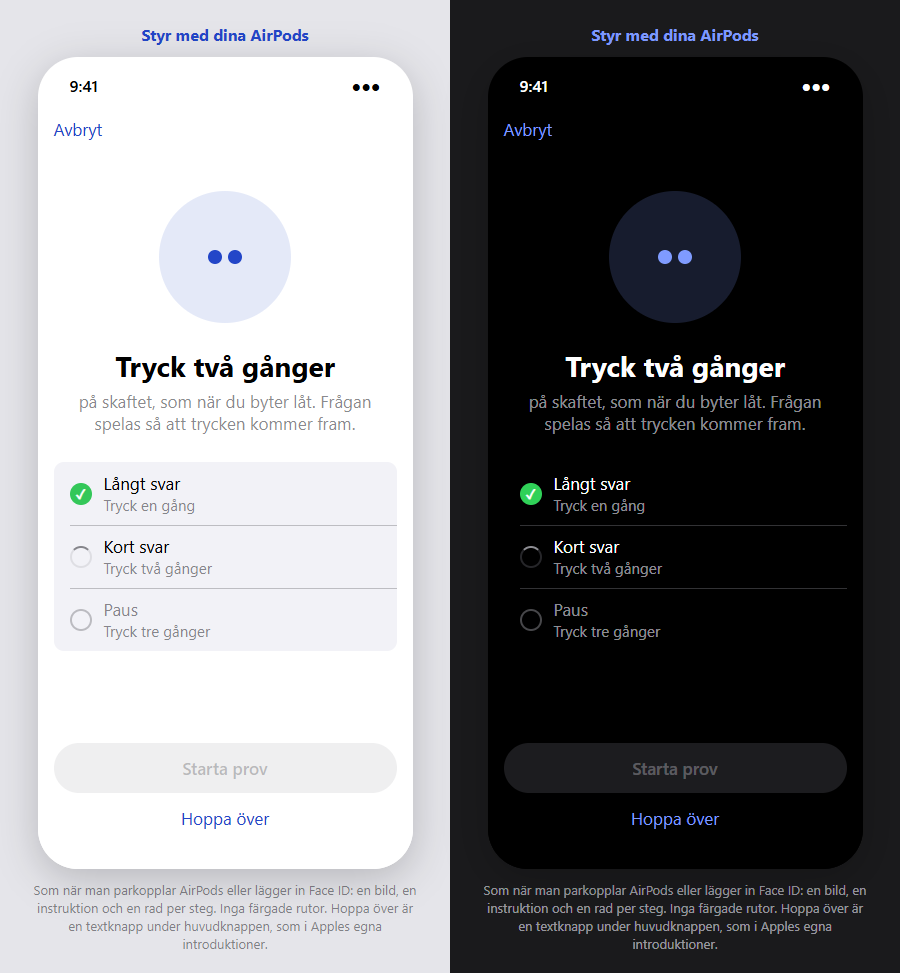
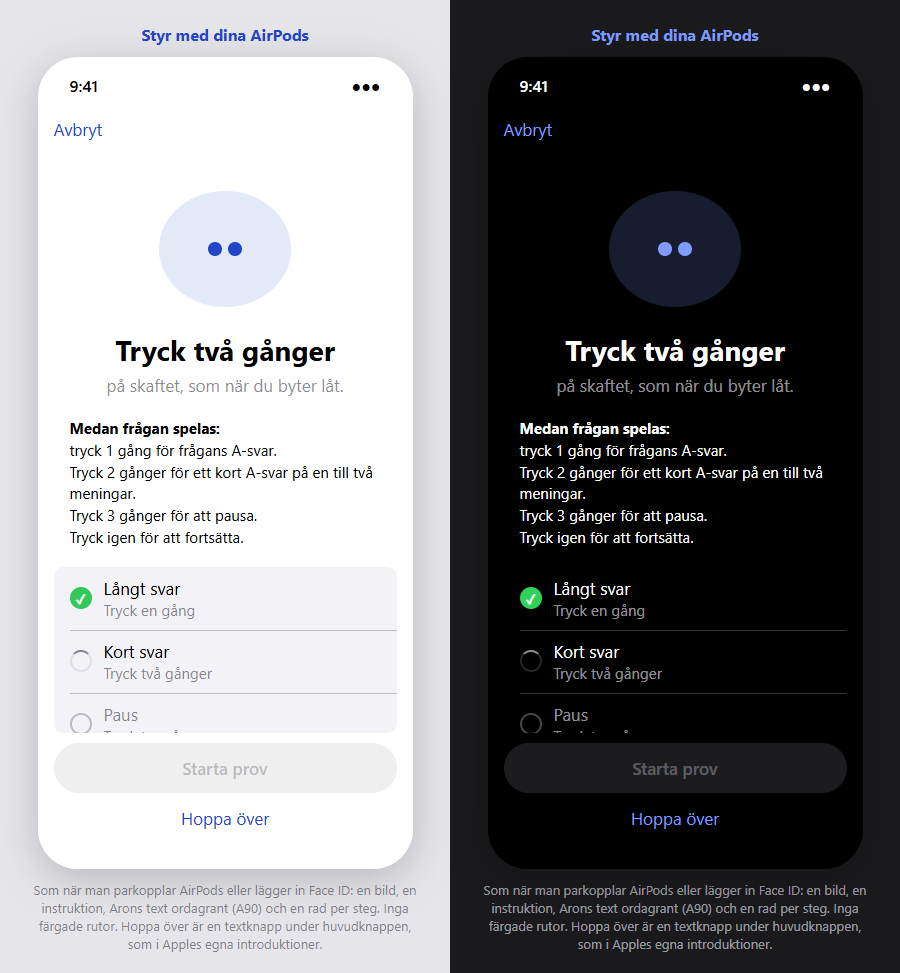
Kelly: texter och skisser efter A90 (Arons kontrolltext ordagrant), D162 (inget val av svarslängd) och A88 (årskurs) [skip eval]

diff --git a/docs/design/_src/apple.html b/docs/design/_src/apple.html
@@ -133,7 +133,7 @@ add('hem', 'Hem med prov', 'En lista, som Podcaster. Överst nästa prov med den
   <div class="sec"><div class="row"><div>Lyssnande lägen<div class="sub">Beta · använder mikrofonen</div></div><span class="v">${chev}</span></div></div>
   </div><div class="tb"><span>${I('plus', 'ico', 'width:24px;height:24px;stroke:none')}Nytt prov</span><span></span></div></div>`);
 
-add('nytt', 'Nytt prov (Form)', 'Ett vanligt formulär i ett blad. Materialet som rader med symbol, inte ett rutnät av kort. Inställningar med systemets Stepper och segmentväljare. Skapa frågor står alltid synlig nederst och säger varför den är grå.',
+add('nytt', 'Nytt prov (Form)', 'Ett vanligt formulär i ett blad. Materialet som rader med symbol, inte ett rutnät av kort. Antal frågor med systemets Stepper och årskursen som en meny (A88, Hoppa över finns i menyn). Inget val av svarslängd (D162). Skapa frågor står alltid synlig nederst och säger varför den är grå.',
   () => `<div class="phone g">${status}<div class="nav"><a>Avbryt</a><span class="t">Nytt prov</span><span style="width:50px"></span></div>
   <div class="content" style="padding-top:8px">
   <div class="sec"><div class="row" style="color:var(--ter)">Provets namn</div></div>
@@ -145,8 +145,8 @@ add('nytt', 'Nytt prov (Form)', 'Ett vanligt formulär i ett blad. Materialet so
   <div class="sf">Fotona och dokumenten sparas inte.</div>
   <div class="sh">Frågor</div>
   <div class="sec"><div class="row">Antal frågor<span class="v" style="gap:12px;color:var(--label)">20<span class="stepper"><span>−</span><span>+</span></span></span></div>
-    <div class="row" style="flex-direction:column;align-items:stretch;gap:8px">Långa svar<div class="seg"><span>Kortare</span><span class="on">Normal</span><span>Längre</span></div></div></div>
-  <div class="sf">Normal är ett fullt svar på cirka 90 ord.</div>
+    <div class="row">Vilken årskurs?<span class="v" style="color:var(--label)">åk 9 ${chev}</span></div></div>
+  <div class="sf">Varje fråga får ett kort och ett långt svar. Hoppa över årskursen om du vill.</div>
   </div><div class="bottom"><div class="btnp dis">Skapa frågor</div><div class="note">Lägg till minst en sida, bild eller text.</div></div></div>`);
 
 add('fragor', 'Frågelistan', 'Stor rubrik, vanliga listrader och systemets Dela-symbol och ⋯-meny uppe till höger (Publicera prov, Ändra ordning, Ta bort). Starta prov ligger fast nederst och syns alltid, oavsett hur många frågor provet har.',
@@ -160,13 +160,14 @@ add('fragor', 'Frågelistan', 'Stor rubrik, vanliga listrader och systemets Dela
   <div class="sec"><div class="row" style="font-size:15px">Fotosyntes, cellandning, kolets kretslopp och näringskedjor.</div></div>
   </div><div class="bottom"><div class="btnp">${I('play', 'ico', 'width:16px;height:16px;stroke:none')}Starta prov</div><div class="note">Spelas i dina AirPods. Mikrofonen används inte.</div></div></div>`);
 
-add('kontroller', 'Styr med dina AirPods', 'Som när man parkopplar AirPods eller lägger in Face ID: en bild, en instruktion och en rad per steg. Inga färgade rutor. Hoppa över är en textknapp under huvudknappen, som i Apples egna introduktioner.',
+add('kontroller', 'Styr med dina AirPods', 'Som när man parkopplar AirPods eller lägger in Face ID: en bild, en instruktion, Arons text ordagrant (A90) och en rad per steg. Inga färgade rutor. Hoppa över är en textknapp under huvudknappen, som i Apples egna introduktioner.',
   () => `<div class="phone">${status}<div class="nav"><a>Avbryt</a><span></span><span></span></div>
   <div class="content">
   <div class="ctl-ill"><span class="dots"><i></i><i></i></span></div>
   <div style="text-align:center;font-size:28px;font-weight:700;margin-top:24px">Tryck två gånger</div>
-  <div style="text-align:center;font-size:17px;color:var(--sec);margin-top:6px;padding:0 40px">på skaftet, som när du byter låt. Frågan spelas så att trycken kommer fram.</div>
-  <div class="sec" style="margin-top:28px;background:var(--gbg)">
+  <div style="text-align:center;font-size:17px;color:var(--sec);margin-top:6px;padding:0 40px">på skaftet, som när du byter låt.</div>
+  <div style="margin:22px 32px 0;font-size:15px;line-height:1.45"><b>Medan frågan spelas:</b><br>tryck 1 gång för frågans A-svar.<br>Tryck 2 gånger för ett kort A-svar på en till två meningar.<br>Tryck 3 gånger för att pausa.<br>Tryck igen för att fortsätta.</div>
+  <div class="sec" style="margin-top:18px;background:var(--gbg)">
     <div class="row"><span class="check">✓</span><div>Långt svar<div class="sub">Tryck en gång</div></div></div>
     <div class="row"><span class="spin"></span><div>Kort svar<div class="sub">Tryck två gånger</div></div></div>
     <div class="row"><span class="ring0"></span><div style="color:var(--sec)">Paus<div class="sub">Tryck tre gånger</div></div></div></div>

diff --git a/docs/design/repetition-texter.md b/docs/design/repetition-texter.md
@@ -47,8 +47,8 @@ skrivs alltid i samma ordning: 1 tryck = långt svar, 2 tryck = kort svar, 3 try
 | Rubrik över miniatyrerna | TILLAGT · {n} saker | Tillagt: {n} … |
 | VoiceOver på × | Ta bort {sida 3 / namn.pdf} | |
 | Rad | Antal frågor · {20} | Antal frågor: {20} |
-| Rad | Långa svar · Kortare / Normal / Längre | |
-| Fotnot | Normal är ett fullt A-svar på cirka {90} ord. Det korta svaret är första meningen. | Långa svar är ett fullständigt A-svar, omkring {90} ord. Det korta svaret är alltid den första meningen. |
+| Rad (A88, D161) | Vilken årskurs? · åk 7 · åk 8 · åk 9 · Gy 1 · Gy 2 · Gy 3 · Högskola · *textknapp:* Hoppa över | |
+| Fotnot | Varje fråga får ett kort och ett långt svar. | *(raden Långa svar är borttagen, D162/A89)* |
 | Fotnot 2 | Foton, dokument och text skickas en gång för att göra frågorna och sparas inte. | |
 | Huvudknapp | Skapa frågor | |
 | Huvudknapp utan material (avstängd) | Skapa frågor *(grå)* | |
@@ -124,15 +124,27 @@ skrivs alltid i samma ordning: 1 tryck = långt svar, 2 tryck = kort svar, 3 try
 | Lämna med osparade ändringar | **Spara ändringarna?** · Spara · Släng ändringarna *(röd)* · Avbryt | |
 
 ## 7. Styr med dina AirPods (kontrollskärmen)
+**A90, Aron 23:13, ordagrant. Ändra inget ord:** "Medan frågan spelas: tryck 1 gång för frågans A-svar. Tryck 2 gånger för ett kort A-svar på en till två meningar. Tryck 3 gånger för att pausa. Tryck igen för att fortsätta." Samma text på kontrollskärmen och i hjälpen. Rubriken "Medan frågan spelas:" står först, och därefter en mening per rad:
+
+| Rad | Text |
+|---|---|
+| Rubrik över raderna | Medan frågan spelas: |
+| 1 (●) | tryck 1 gång för frågans A-svar. |
+| 2 (●●) | Tryck 2 gånger för ett kort A-svar på en till två meningar. |
+| 3 (●●●) | Tryck 3 gånger för att pausa. |
+| 4 | Tryck igen för att fortsätta. |
+
+Raderna nedan med etiketterna Långt svar, Kort svar och Paus gäller bara testets bockar och statusen (Väntar …, ✓, Kom inte fram). Förklaringen av trycken är alltid Arons text ovan.
+
 | Ställe | Text | I koden nu |
 |---|---|---|
 | Rubrik | Styr med dina AirPods | |
 | Rad under rubriken (bara innan första trycket) | Frågan spelas en gång så att trycken kommer fram. | *(saknas, D147 punkt 5)* |
 | Stor instruktion | Tryck en gång nu · Tryck två gånger nu · Tryck tre gånger nu | |
 | Rad under | på skaftet, som när du pausar musik · … byter låt · … går tillbaka en låt | |
-| Rad 1 | Långt svar · *Hela svaret* | 1 tryck · Långt svar |
-| Rad 2 | Kort svar · *Bara första meningen* | 2 tryck · Kort svar |
-| Rad 3 | Paus · *Vilket tryck som helst fortsätter* | Paus, och 3 igen för att fortsätta |
+| Rad 1 (status) | Långt svar · *Hela svaret* | 1 tryck · Långt svar |
+| Rad 2 (status) | Kort svar · *En till två meningar* | 2 tryck · Kort svar |
+| Rad 3 (status) | Paus · *Tryck igen för att fortsätta* | Paus, och 3 igen för att fortsätta |
 | Status | Väntar … · Sen · ✓ | |
 | Status när inget kom inom 8 s | Kom inte fram | |
 | Uppe till höger | Hoppa över | |
